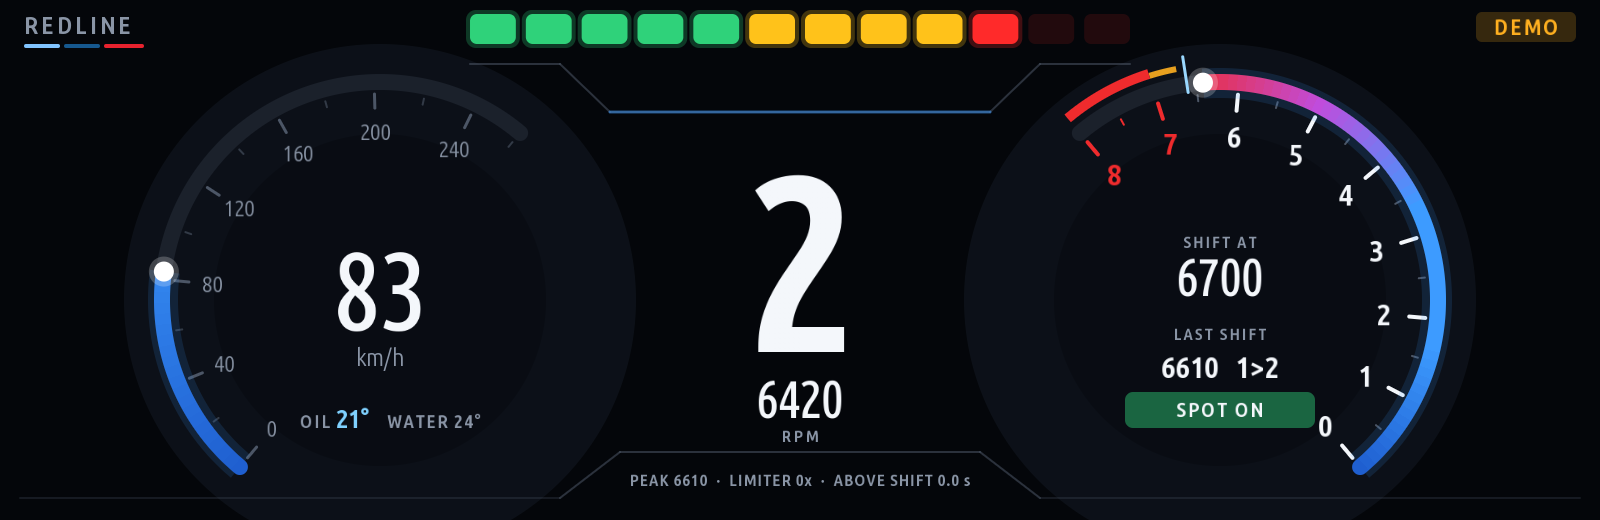
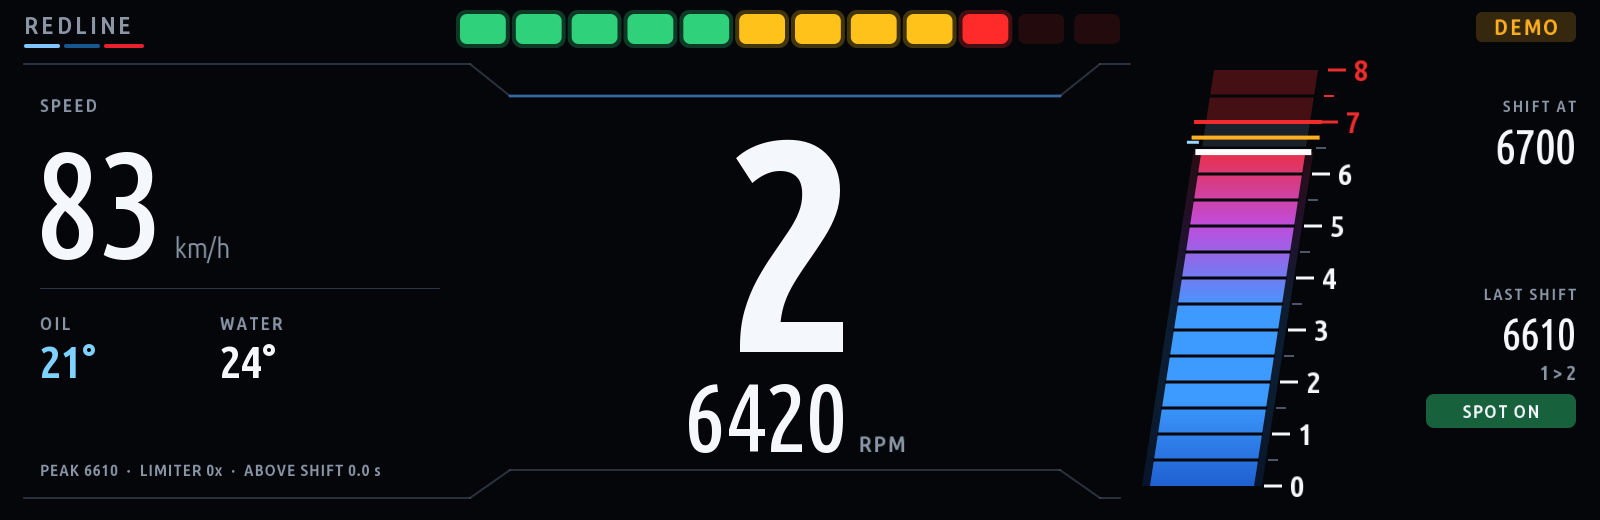
Redline 1.2: G20-style rising rev bar, bigger gear, digital speed
- Revs as a tall slanted bar that rises in 500 rpm segments (theme hot
  ramp to red at the shift point, solid red above), redline part of the
  track tinted, shift point / redline marks, scale on the right
- Huge gear (300 px) and big rpm in the centre; speed is digital only
  (no speed dial); oil / water, cold limit and stats on the left; shift
  point and last shift on the right
- README: Redline description + screenshot

Claude-Session: https://claude.ai/code/session_01G89YVjbLtqWwckvonFV4nZ

diff --git a/apps/redline/main.js b/apps/redline/main.js
@@ -1,8 +1,8 @@
 'use strict';
 /**
- * Redline - full-screen rev tach drawn like the G20 Live Cockpit in Sport mode:
- * two mirrored open gauges (speed left, revs right) filling from the outer bottom
- * corners towards the centre, a huge gear between them, angular frame lines.
+ * Redline - full-screen rev display in the style of the G20 Live Cockpit (Sport):
+ * a tall slanted rev bar that rises with the revs (segmented, theme colour to red
+ * at the shift point), a huge gear in the middle, digital speed, angular lines.
  *
  *   - shift-light bar that fills over the last 2000 rpm and strobes at the shift point
  *   - huge gear number (from the gearbox, or learned from rpm/speed ratios)
@@ -13,16 +13,15 @@
  * Pages: tach / shift log. Peaks reset with BTN_RESET.
  */
 const mgu = require('./kit/mgu');
-const { Canvas, withAlpha, mix } = require('./kit/canvas');
+const { Canvas, withAlpha, ramp } = require('./kit/canvas');
 const G = require('./kit/gauges');
 const Car = require('./kit/car');
 
 const W = 1600, H = 520;
-// two mirrored pods (G20 style): speed left, revs right; angles in degrees from 12 o'clock
-const PY = 300, PR = 226, THICK = 16;
-const SPD = { cx: 380, a0: -140, a1: 40 };          // fills clockwise from the lower left
-const TAC = { cx: 1220, a0: 140, a1: -40 };         // fills anticlockwise from the lower right
-const SPEED_MAX = { kmh: 260, mph: 160 };
+// rising rev bar (G20 style): a slanted parallelogram, bottom-left corner at (x, y0),
+// leaning right by 'slant' over its height
+const BAR = { x: 1150, w: 104, y0: 486, y1: 70, slant: 64 };
+const GX = 790;                                     // centre column (gear + rpm)
 const MPH = 1.609344;
 const GREEN = '#2fd27a', YELLOW = '#ffc21a', BLUE = '#2a7dff';
 const N_LEDS = 12, LED_RANGE = 2000;
@@ -90,59 +89,41 @@ mgu.run({
             if (G.isNum(g)) lastGear = g;
         }, () => { recent.length = 0; lastGear = null; lastT = 0; });
 
-        /* ---------- static cluster background (cached) ---------- */
-        const P = (cx, a, r) => [cx + Math.sin(a * Math.PI / 180) * r, PY - Math.cos(a * Math.PI / 180) * r];
-        const tacA = (rpm) => TAC.a0 + G.clamp(rpm / maxRpm(), 0, 1) * (TAC.a1 - TAC.a0);
-        const spdMax = () => SPEED_MAX[mph() ? 'mph' : 'kmh'];
-        const spdA = (v) => SPD.a0 + G.clamp(v / spdMax(), 0, 1) * (SPD.a1 - SPD.a0);
+        /* ---------- rev bar geometry + static background (cached) ---------- */
+        const barY = (rpm) => BAR.y0 - G.clamp(rpm / maxRpm(), 0, 1) * (BAR.y0 - BAR.y1);
+        const barX = (y) => BAR.x + BAR.slant * (BAR.y0 - y) / (BAR.y0 - BAR.y1);     // left edge at height y
+        /** Fill the bar between two heights (row by row, so the slant stays anti-aliased). */
+        function barRows(cv, yTop, yBot, colAt, pad) {
+            pad = pad || 0;
+            for (let y = Math.floor(yTop); y < Math.ceil(yBot); y++) {
+                const h = Math.min(y + 1, yBot) - Math.max(y, yTop);
+                if (h > 0) cv.fillRect(barX(y + 0.5) - pad, Math.max(y, yTop), BAR.w + 2 * pad, h, colAt(y));
+            }
+        }
         let bg = null, bgKey = '';
         function background(t, sp) {
-            const key = [settings.get('theme'), maxRpm(), redline(), sp.rpm, settings.get('speedUnit')].join('|');
+            const key = [settings.get('theme'), maxRpm(), redline(), sp.rpm].join('|');
             if (bg && key === bgKey) return bg;
             const cv = new Canvas(W, H).clear(t.bg);
-            // soft glow behind each pod
-            [SPD.cx, TAC.cx].forEach((cx) => {
-                cv.arc(cx, PY, 0, PR + 30, 0, 360, withAlpha(t.panelTop, 0.55));
-                cv.arc(cx, PY, 0, PR - 60, 0, 360, withAlpha(t.bg, 0.35));
-            });
-            // angular frame lines (the G20's hexagonal outline): over the top and under the centre
-            const fl = withAlpha(t.tick, 0.55), fa = withAlpha(t.accent, 0.5);
-            cv.polyline([[SPD.cx + 90, 64], [560, 64], [610, 112], [990, 112], [1040, 64], [TAC.cx - 90, 64]], 2, fl);
-            cv.polyline([[610, 112], [990, 112]], 3, fa);
-            cv.polyline([[560, 498], [620, 452], [980, 452], [1040, 498]], 2, fl);
-            cv.polyline([[20, 498], [560, 498]], 1.5, withAlpha(t.tick, 0.35));
-            cv.polyline([[1040, 498], [1580, 498]], 1.5, withAlpha(t.tick, 0.35));
-            // tracks
-            cv.arc(SPD.cx, PY, PR - THICK, PR, SPD.a0, SPD.a1, t.track, { round: true });
-            cv.arc(TAC.cx, PY, PR - THICK, PR, TAC.a1, TAC.a0, t.track, { round: true });
-            // speed ticks: every 20 (10 mph), numbers every 40 (20 mph)
-            const sStep = mph() ? 10 : 20;
-            for (let v = 0; v <= spdMax(); v += sStep) {
-                const a = spdA(v), major = v % (sStep * 2) === 0;
-                const [xa, ya] = P(SPD.cx, a, PR - THICK - (major ? 18 : 10)), [xb, yb] = P(SPD.cx, a, PR - THICK - 4);
-                cv.line(xa, ya, xb, yb, major ? 3 : 2, major ? t.tick : withAlpha(t.tick, 0.6));
-                if (major) { const [lx, ly] = P(SPD.cx, a, PR - THICK - 42); cv.text(String(v), lx, ly + 8, 22, t.dim, { align: 'center', font: 'label' }); }
-            }
-            // rev ticks every 500, numbers every 1000; shift zone + redline on the rim
-            cv.arc(TAC.cx, PY, PR + 6, PR + 12, tacA(redline()), tacA(sp.rpm), withAlpha(t.warn, 0.9));
-            cv.arc(TAC.cx, PY, PR + 6, PR + 16, TAC.a1, tacA(redline()), t.crit);
+            // angular frame lines (the G20's outline)
+            const fl = withAlpha(t.tick, 0.55);
+            cv.polyline([[24, 64], [470, 64], [510, 96], [1060, 96], [1100, 64], [BAR.x - 20, 64]], 2, fl);
+            cv.polyline([[510, 96], [1060, 96]], 3, withAlpha(t.accent, 0.5));
+            cv.polyline([[24, 498], [470, 498], [510, 470], [1060, 470], [1100, 498], [BAR.x - 30, 498]], 2, fl);
+            // bar track, with the redline part tinted
+            barRows(cv, BAR.y1, BAR.y0, (y) => (y < barY(redline()) ? withAlpha(t.crit, 0.28) : t.track));
+            // segment gaps every 500 rpm + scale on the right: ticks, numbers every 1000, shift / redline marks
+            for (let rpm = 500; rpm < maxRpm(); rpm += 500) cv.fillRect(barX(barY(rpm)) - 1, barY(rpm) - 1.5, BAR.w + 2, 3, t.bg);
             for (let rpm = 0; rpm <= maxRpm(); rpm += 500) {
-                const a = tacA(rpm), major = rpm % 1000 === 0, red = rpm >= redline();
-                const [xa, ya] = P(TAC.cx, a, PR - THICK - (major ? 20 : 10)), [xb, yb] = P(TAC.cx, a, PR - THICK - 4);
-                cv.line(xa, ya, xb, yb, major ? 4 : 2, red ? t.crit : major ? t.text : t.tick);
-                if (major) { const [lx, ly] = P(TAC.cx, a, PR - THICK - 46); cv.text(String(rpm / 1000), lx, ly + 11, 30, red ? t.crit : t.text, { align: 'center', font: 'bold' }); }
+                const y = barY(rpm), x = barX(y) + BAR.w + 10, major = rpm % 1000 === 0, red = rpm >= redline();
+                cv.fillRect(x, y - (major ? 1.5 : 1), major ? 18 : 10, major ? 3 : 2, red ? t.crit : major ? t.text : t.tick);
+                if (major) cv.text(String(rpm / 1000), x + 26, y + 11, 30, red ? t.crit : t.text, { font: 'bold' });
             }
+            const ys = barY(sp.rpm), yr = barY(redline());
+            cv.fillRect(barX(ys) - 12, ys - 2, BAR.w + 24, 4, t.warn);                      // shift point
+            cv.fillRect(barX(yr) - 12, yr - 2, BAR.w + 24, 4, t.crit);                      // redline
             bg = cv; bgKey = key;
             return cv;
-        }
-
-        /** Gauge fill with a soft glow and a bright tip. */
-        function fill(cv, cx, a0, a, ramp, from, to, col) {
-            cv.arc(cx, PY, PR - THICK - 8, PR + 6, a0, a, withAlpha(col, 0.14));
-            cv.arc(cx, PY, PR - THICK, PR, a0, a, col, ramp ? { round: true, ramp, rampFrom: from, rampTo: to } : { round: true });
-            const [x, y] = P(cx, a, PR - THICK / 2);
-            cv.circle(x, y, THICK / 2 + 7, withAlpha('#ffffff', 0.22));
-            cv.circle(x, y, THICK / 2 + 2, '#ffffff');
         }
 
         /* ---------- drawing ---------- */
@@ -161,7 +142,7 @@ mgu.run({
 
         function shiftLights(cv, t, rpm, sp, now) {
             const cols = ledColors(t);
-            const x0 = 470, w = 660, gap = 10, lw = (w - gap * (N_LEDS - 1)) / N_LEDS, y = 14, h = 30;
+            const x0 = GX - 330, w = 660, gap = 10, lw = (w - gap * (N_LEDS - 1)) / N_LEDS, y = 14, h = 30;
             const start = sp - LED_RANGE;
             const lit = G.isNum(rpm) ? Math.floor(G.clamp((rpm - start) / LED_RANGE, 0, 1) * N_LEDS) : 0;
             const strobe = G.isNum(rpm) && rpm >= sp;
@@ -186,49 +167,56 @@ mgu.run({
                 cv.gradientRect(0, 0, W, H, [[0, withAlpha(t.crit, 0.30)], [0.5, withAlpha(t.crit, 0.06)], [1, withAlpha(t.crit, 0.22)]]);
             }
 
-            // ---- speed pod (left)
-            const v = G.isNum(d.speed) ? (mph() ? d.speed / MPH : d.speed) : null;
-            if (G.isNum(v) && v > 0.5) fill(cv, SPD.cx, SPD.a0, spdA(v), t.ramp, SPD.a0, SPD.a1, t.accent);
-            cv.text(G.fmt(v, 0), SPD.cx, PY + 30, 110, G.isNum(v) ? t.text : t.dim, { align: 'center', font: 'num' });
-            cv.text(mph() ? 'mph' : 'km/h', SPD.cx, PY + 66, 24, t.dim, { align: 'center' });
-            const oilCol = !G.isNum(d.oil) ? t.dim : d.oil < 60 ? t.cold : d.oil < settings.get('warmOil') ? YELLOW : d.oil > 130 ? t.crit : t.text;
-            const ow = cv.text('OIL ', SPD.cx - 80, PY + 128, 18, t.dim, { font: 'bold', spacing: 2 });
-            cv.text(G.fmt(d.oil, 0) + (G.isNum(d.oil) ? '°' : ''), SPD.cx - 80 + ow, PY + 128, 26, oilCol, { font: 'bold' });
-            cv.text('WATER ' + G.fmt(d.coolant, 0) + '°', SPD.cx + 100, PY + 128, 18, t.dim, { align: 'right', font: 'bold', spacing: 1.5 });
-            if (sp.cold) {
-                cv.roundRect(SPD.cx - 130, PY + 146, 260, 34, 8, withAlpha(t.cold, 0.2));
-                cv.text('COLD  ·  LIMIT ' + sp.rpm, SPD.cx, PY + 170, 18, t.cold, { align: 'center', font: 'bold', spacing: 1 });
-            }
-
-            // ---- rev pod (right): theme colour -> red at the shift point, solid red above it
+            // ---- rev bar: rises with the revs; theme colour -> red at the shift point, solid red above
             if (G.isNum(rpm) && rpm > 50) {
-                const a = tacA(rpm), over = rpm >= sp.rpm;
-                fill(cv, TAC.cx, TAC.a0, a, over ? null : (t.hotRamp || t.ramp), TAC.a0, tacA(sp.rpm), over ? '#ff2a2a' : t.accent);
+                const top = barY(rpm), over = rpm >= sp.rpm, hot = t.hotRamp || t.ramp, ys = barY(sp.rpm);
+                const colAt = (y) => (over ? '#ff2a2a' : ramp(hot, G.clamp((BAR.y0 - y) / (BAR.y0 - ys), 0, 1)));
+                barRows(cv, top, BAR.y0, (y) => withAlpha(colAt(y), 0.16), 8);                // glow
+                barRows(cv, top, BAR.y0, colAt);
+                for (let r = 500; r < rpm; r += 500) { const y = barY(r); cv.fillRect(barX(y) - 1, y - 1.5, BAR.w + 2, 3, t.bg); }
+                cv.fillRect(barX(top) - 6, top - 3, BAR.w + 12, 6, '#ffffff');               // bright top edge
             }
-            if (peakRpm > 0) {
-                const [xa, ya] = P(TAC.cx, tacA(peakRpm), PR - THICK), [xb, yb] = P(TAC.cx, tacA(peakRpm), PR + 20);
-                cv.line(xa, ya, xb, yb, 3, t.accent2);
-            }
-            cv.text('SHIFT AT', TAC.cx, PY - 52, 16, t.dim, { align: 'center', font: 'bold', spacing: 2 });
-            cv.text(String(sp.rpm), TAC.cx, PY - 4, 52, sp.cold ? t.cold : t.text, { align: 'center', font: 'num' });
-            cv.text('LAST SHIFT', TAC.cx, PY + 40, 16, t.dim, { align: 'center', font: 'bold', spacing: 2 });
-            if (lastShift) {
-                const age = now - lastShift.at, vc = VCOL[lastShift.verdict];
-                cv.text(String(lastShift.rpm) + (lastShift.from !== '?' ? '   ' + lastShift.from + '>' + lastShift.to : ''), TAC.cx, PY + 78, 30, t.text, { align: 'center', font: 'bold' });
-                cv.roundRect(TAC.cx - 95, PY + 92, 190, 36, 8, withAlpha(vc, age < 2500 ? 0.45 : 0.18));
-                cv.text(lastShift.verdict, TAC.cx, PY + 117, 20, age < 2500 ? t.text : vc, { align: 'center', font: 'bold', spacing: 2 });
-            } else cv.text('--', TAC.cx, PY + 78, 30, t.dim, { align: 'center', font: 'bold' });
+            if (peakRpm > 0) { const y = barY(peakRpm); cv.fillRect(barX(y) - 16, y - 1.5, 12, 3, t.accent2); }
 
-            // ---- centre: gear + rpm
+            // ---- centre: huge gear + rpm
             const g = d.gear;
             const gs = g === -1 ? 'R' : g === 0 ? 'N' : G.isNum(g) ? String(g) : '-';
             const gc = strobe ? (Math.floor(now / 90) % 2 ? t.text : '#ff2a2a') : t.text;
-            cv.text(gs, 800, 352, 250, gc, { align: 'center', font: 'gear' });
-            if (d.gearGuessed && G.isNum(g) && g > 0) cv.text('EST.', 800, 134, 16, t.dim, { align: 'center', font: 'bold', spacing: 1.5 });
-            cv.text(G.isNum(rpm) ? String(Math.round(rpm / 10) * 10) : '----', 800, 418, 52, G.isNum(rpm) ? (rpm >= sp.rpm ? '#ff4a4a' : t.text) : t.dim, { align: 'center', font: 'num' });
-            cv.text('RPM', 800, 442, 16, t.dim, { align: 'center', font: 'bold', spacing: 3 });
+            cv.text(gs, GX, 352, 300, gc, { align: 'center', font: 'gear' });
+            if (d.gearGuessed && G.isNum(g) && g > 0) cv.text('EST.', GX, 124, 16, t.dim, { align: 'center', font: 'bold', spacing: 1.5 });
+            const rw = cv.text(G.isNum(rpm) ? String(Math.round(rpm / 10) * 10) : '----', GX - 24, 452, 96, G.isNum(rpm) ? (rpm >= sp.rpm ? '#ff4a4a' : t.text) : t.dim, { align: 'center', font: 'num' });
+            cv.text('RPM', GX - 24 + rw / 2 + 12, 452, 22, t.dim, { font: 'bold', spacing: 2 });
+
+            // ---- left: digital speed, temperatures, cold guard, stats
+            const v = G.isNum(d.speed) ? (mph() ? d.speed / MPH : d.speed) : null;
+            cv.text('SPEED', 40, 112, 18, t.dim, { font: 'bold', spacing: 2 });
+            const vw = cv.text(G.fmt(v, 0), 36, 258, 150, G.isNum(v) ? t.text : t.dim, { font: 'num' });
+            cv.text(mph() ? 'mph' : 'km/h', 48 + vw, 258, 28, t.dim);
+            cv.fillRect(40, 288, 400, 1, withAlpha(t.tick, 0.6));
+            const oilCol = !G.isNum(d.oil) ? t.dim : d.oil < 60 ? t.cold : d.oil < settings.get('warmOil') ? YELLOW : d.oil > 130 ? t.crit : t.text;
+            cv.text('OIL', 40, 330, 18, t.dim, { font: 'bold', spacing: 2 });
+            cv.text(G.fmt(d.oil, 0) + (G.isNum(d.oil) ? '°' : ''), 40, 378, 44, oilCol, { font: 'bold' });
+            cv.text('WATER', 220, 330, 18, t.dim, { font: 'bold', spacing: 2 });
+            cv.text(G.fmt(d.coolant, 0) + (G.isNum(d.coolant) ? '°' : ''), 220, 378, 44, t.text, { font: 'bold' });
+            if (sp.cold) {
+                cv.roundRect(40, 400, 300, 36, 8, withAlpha(t.cold, 0.2));
+                cv.text('COLD  ·  LIMIT ' + sp.rpm, 190, 425, 18, t.cold, { align: 'center', font: 'bold', spacing: 1 });
+            }
             cv.text('PEAK ' + (peakRpm ? Math.round(peakRpm) : '--') + '  ·  LIMITER ' + limiterHits + 'x  ·  ABOVE SHIFT ' + (overShiftMs / 1000).toFixed(1) + ' s',
-                800, 486, 16, t.dim, { align: 'center', font: 'bold', spacing: 1 });
+                40, 476, 16, t.dim, { font: 'bold', spacing: 1 });
+
+            // ---- right of the bar: shift point + last shift
+            const rx = W - 24;
+            cv.text('SHIFT AT', rx, 112, 16, t.dim, { align: 'right', font: 'bold', spacing: 2 });
+            cv.text(String(sp.rpm), rx, 164, 48, sp.cold ? t.cold : t.text, { align: 'right', font: 'num' });
+            cv.text('LAST SHIFT', rx, 300, 16, t.dim, { align: 'right', font: 'bold', spacing: 2 });
+            if (lastShift) {
+                const age = now - lastShift.at, vc = VCOL[lastShift.verdict];
+                cv.text(String(lastShift.rpm), rx, 350, 44, t.text, { align: 'right', font: 'num' });
+                if (lastShift.from !== '?') cv.text(lastShift.from + ' > ' + lastShift.to, rx, 380, 20, t.dim, { align: 'right', font: 'bold' });
+                cv.roundRect(rx - 150, 394, 150, 34, 8, withAlpha(vc, age < 2500 ? 0.45 : 0.18));
+                cv.text(lastShift.verdict, rx - 75, 418, 18, age < 2500 ? t.text : vc, { align: 'center', font: 'bold', spacing: 1.5 });
+            } else cv.text('--', rx, 350, 44, t.dim, { align: 'right', font: 'num' });
         }
 
         function drawLog(cv, t) {

diff --git a/README.md b/README.md
@@ -12,7 +12,7 @@ Everything can be removed again with one command.
 |---|---|
 | ![eDrive](docs/screens/edrive.png)<br>**eDrive**: real electric range, battery health, last charge, 12 V | ![eDrive charge log](docs/screens/edrive_log.png)<br>**eDrive**: charge log with cost and totals |
 | ![M Vitals engine](docs/screens/m_vitals_engine.png)<br>**M Vitals**: rpm, boost, speed + gear, power, torque | ![M Vitals intake and fuel](docs/screens/m_vitals_fuel.png)<br>**M Vitals**: intake air, HPFP / LPFP fuel pressure |
-| ![M Vitals chassis](docs/screens/m_vitals_chassis.png)<br>**M Vitals**: g-force, tyre pressures + temperatures, xDrive | ![Redline](docs/screens/redline.png)<br>**Redline**: G20-style cluster, shift lights, shift scoring |
+| ![M Vitals chassis](docs/screens/m_vitals_chassis.png)<br>**M Vitals**: g-force, tyre pressures + temperatures, xDrive | ![Redline](docs/screens/redline.png)<br>**Redline**: G20-style rev bar, huge gear, shift lights, shift scoring |
 | ![G-Force](docs/screens/gforce.png)<br>**G-Force**: friction circle, peaks, records | ![Virtual Dyno](docs/screens/dyno.png)<br>**Virtual Dyno**: power and torque curve |
 | ![Brake Test](docs/screens/brake_test.png)<br>**Brake Test**: 100-0 distance, deceleration, fade | ![Drag Timer](docs/screens/draggy.png)<br>**Drag Timer**: splits, ¼ mile, speed trace |
 | ![Warm-Up](docs/screens/warmup.png)<br>**Warm-Up**: time to working temperature, safe rev limit, turbo cool-down | ![Fault Scanner](docs/screens/dtc_scanner.png)<br>**Fault Scanner**: fault codes of every control unit |
@@ -51,7 +51,7 @@ the unit and kept across reboots.
 
 | App | What it does |
 |---|---|
-| **Redline** | A G20-style cluster: speed and rev gauges side by side that fill from the outer corners (the rev bar runs blue to red towards your shift point), a huge gear in the middle and a 12-LED shift-light bar that strobes at your shift point (optionally flashing the whole screen red). Gear read from the gearbox or learned from rpm/speed. Every upshift is scored (EARLY / SPOT ON / LATE / LIMITER), with a shift log and accuracy stats. A cold-engine guard lowers the shift point until the oil is warm. |
+| **Redline** | A G20 Live Cockpit style rev display: a tall slanted rev bar that rises in segments with the revs (theme colour to red at your shift point), a huge gear and big rpm in the middle, digital speed, and a 12-LED shift-light bar that strobes at your shift point (optionally flashing the whole screen red). Gear read from the gearbox or learned from rpm/speed. Every upshift is scored (EARLY / SPOT ON / LATE / LIMITER), with a shift log and accuracy stats. A cold-engine guard lowers the shift point until the oil is warm. |
 | **Virtual Dyno** | Do a full-throttle pull in one gear and get a power and torque curve, calculated from acceleration, car weight, air drag and rolling resistance. Settings for weight, body shape, drivetrain loss, hp/PS/kW and Nm/lb-ft. Runs are saved; pin one as a baseline to see ± on every new pull. Optional overlay of the engine computer's own torque reading. |
 | **Brake Test** | 100-0 and 200-0 km/h (or 60-0 and 100-0 mph): distance, time, peak deceleration and a deceleration trace. The start crossing is interpolated between samples, so results don't depend on the sample rate. A brake-fade chart compares your last stops and warns when distances grow. Bests plus full history. |
 | **Drag Timer** | 0-50, 0-100, 100-200, 0-200 km/h and ¼ mile (or mph equivalents), with interpolated splits, optional one-foot rollout, a live speed trace and saved best times. |
